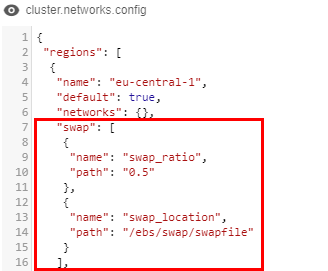
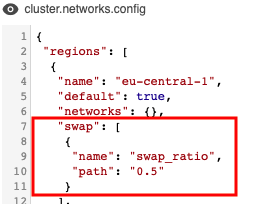
Fix the swap description as of #593

Changed region(s): [[0.031, 0.1176, 0.9302, 1.0], [0.0, 0.0, 0.5891, 0.0882], [0.8372, 0.7647, 0.8682, 0.7941]]

diff --git a/docs/md/release_notes/v.0.15/v.0.15_-_Release_notes.md b/docs/md/release_notes/v.0.15/v.0.15_-_Release_notes.md
@@ -239,10 +239,10 @@ This feature is addresses the same issues as the previous **Notifications about 
 
 In certain cases jobs may fail with unexpected errors if the compute node runs `Out Of Memory`.
 
-**`v0.15`** provides an ability for admin users to configure a default `swap` file to the compute node being created.
-This allow to avoid runs failures due to memory limits.
+**`v0.15`** provides an ability for admin users to configure a default `swap` volume to the compute node being created.
+This allows to avoid runs failures due to memory limits.
 
-The size and the location of the `swap` can be configured via `cluster.networks.config` item of the `Preferences`. It is accomplished by adding the similar `json` object to the platform's global or a region/cloud specific configuration:  
+The size of the `swap` volume can be configured via `cluster.networks.config` item of the `Preferences`. It is accomplished by adding the similar `json` object to the platform's global or a region/cloud specific configuration:  
 ![CP_v.0.15_ReleaseNotes](attachments/RN015_SwapFiles_1.png)
 
 Options that can be used to configure `swap`:
